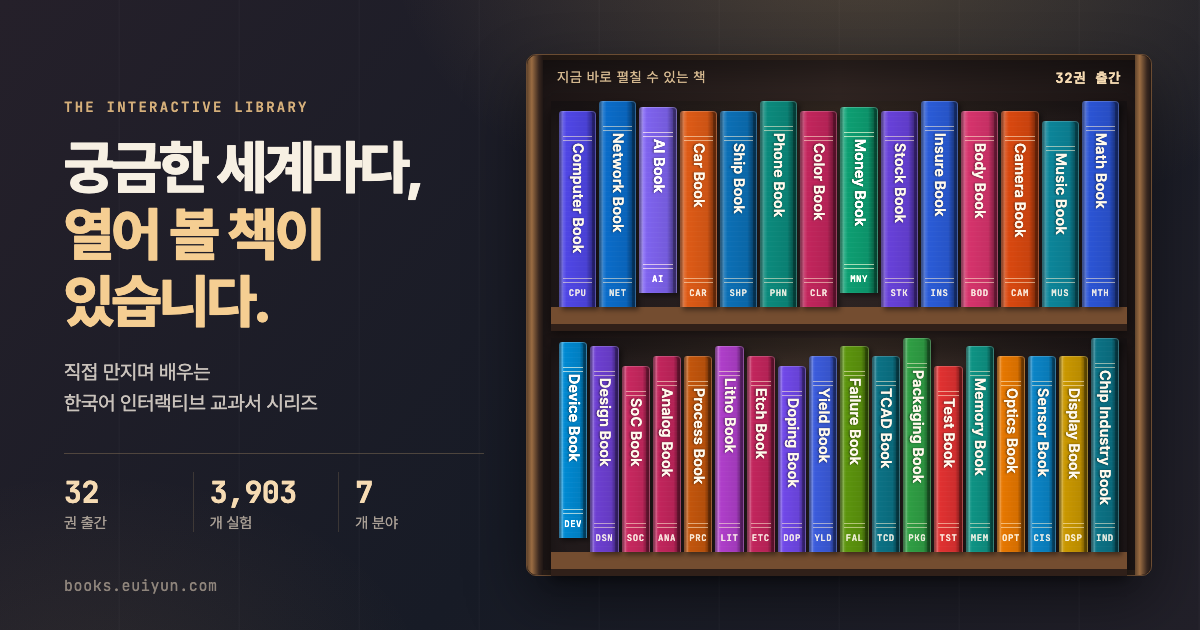
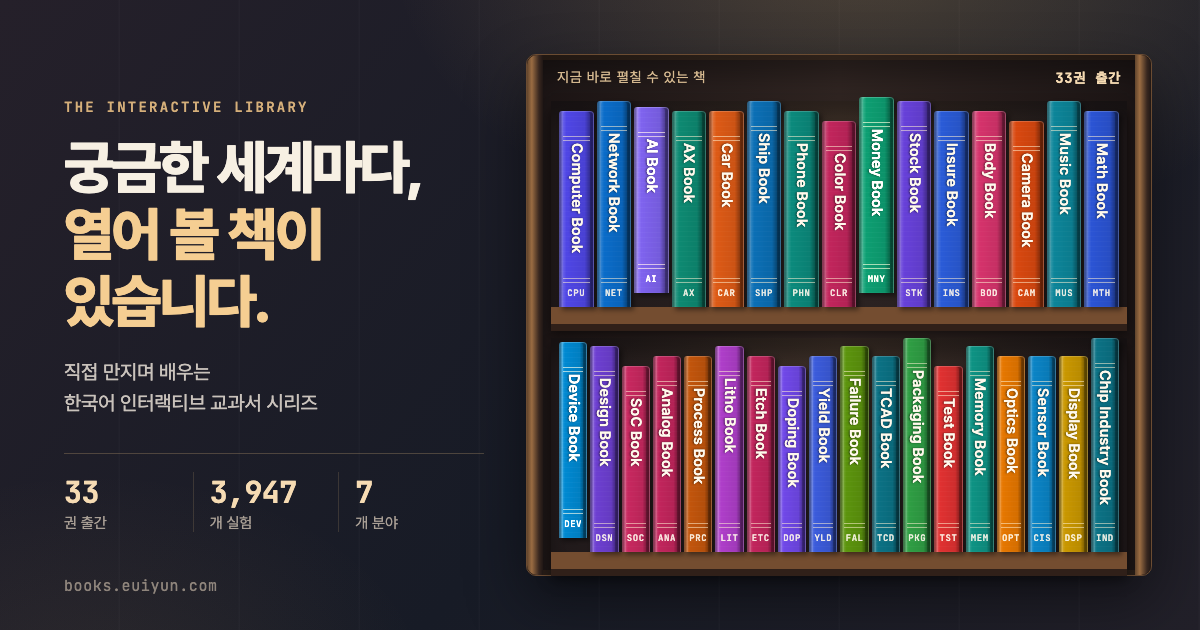
Rebuild AI field page and og.png with AXBook

Changed region(s): [[0.4625, 0.1508, 0.9558, 0.5127], [0.2158, 0.754, 0.2467, 0.8143], [0.0617, 0.754, 0.0925, 0.8143]]

diff --git a/field/ai/index.html b/field/ai/index.html
@@ -4,14 +4,14 @@
 <meta charset="utf-8">
 <meta name="viewport" content="width=device-width, initial-scale=1">
 <title>AI·데이터 · Books</title>
-<meta name="description" content="통계와 데이터 해석에서 신경망과 LLM의 동작 원리까지. AI·데이터 교과서 1권: AIBook.">
+<meta name="description" content="통계와 데이터 해석에서 신경망과 LLM의 동작 원리까지. AI·데이터 교과서 2권: AIBook·AXBook.">
 <link rel="canonical" href="https://books.euiyun.com/field/ai/">
 <link rel="icon" href="/favicon.svg" type="image/svg+xml">
 <meta name="theme-color" content="#201c1f">
 <meta property="og:type" content="website">
 <meta property="og:site_name" content="Books">
 <meta property="og:title" content="AI·데이터 · Books">
-<meta property="og:description" content="통계와 데이터 해석에서 신경망과 LLM의 동작 원리까지. AI·데이터 교과서 1권: AIBook.">
+<meta property="og:description" content="통계와 데이터 해석에서 신경망과 LLM의 동작 원리까지. AI·데이터 교과서 2권: AIBook·AXBook.">
 <meta property="og:url" content="https://books.euiyun.com/field/ai/">
 <meta property="og:image" content="https://books.euiyun.com/og.png">
 <meta property="og:image:width" content="1200">
@@ -27,7 +27,7 @@
 <!-- Cloudflare Web Analytics -->
 <script type='module' src='https://static.cloudflareinsights.com/beacon.min.js' data-cf-beacon='{"token": "3d6151a0abc94ede89285d462527fa80"}'></script>
 <!-- End Cloudflare Web Analytics -->
-<script type="application/ld+json">{"@context": "https://schema.org", "@type": "WebPage", "name": "AI·데이터 · Books", "description": "통계와 데이터 해석에서 신경망과 LLM의 동작 원리까지. AI·데이터 교과서 1권: AIBook.", "url": "https://books.euiyun.com/field/ai/", "inLanguage": "ko", "isPartOf": {"@type": "WebSite", "name": "Books · 인터랙티브 교과서 시리즈", "url": "https://books.euiyun.com/"}}</script>
+<script type="application/ld+json">{"@context": "https://schema.org", "@type": "WebPage", "name": "AI·데이터 · Books", "description": "통계와 데이터 해석에서 신경망과 LLM의 동작 원리까지. AI·데이터 교과서 2권: AIBook·AXBook.", "url": "https://books.euiyun.com/field/ai/", "inLanguage": "ko", "isPartOf": {"@type": "WebSite", "name": "Books · 인터랙티브 교과서 시리즈", "url": "https://books.euiyun.com/"}}</script>
 </head>
 <body data-field="ai">
 
